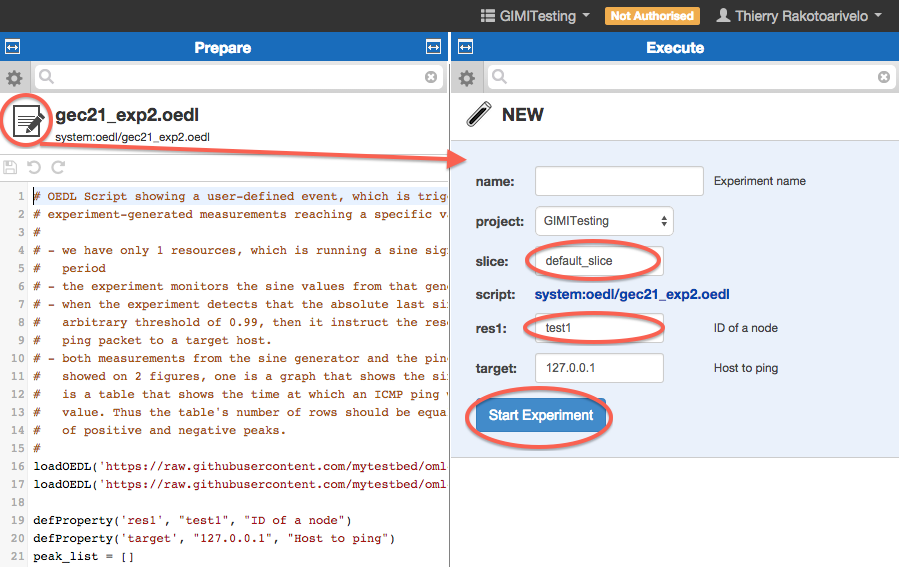
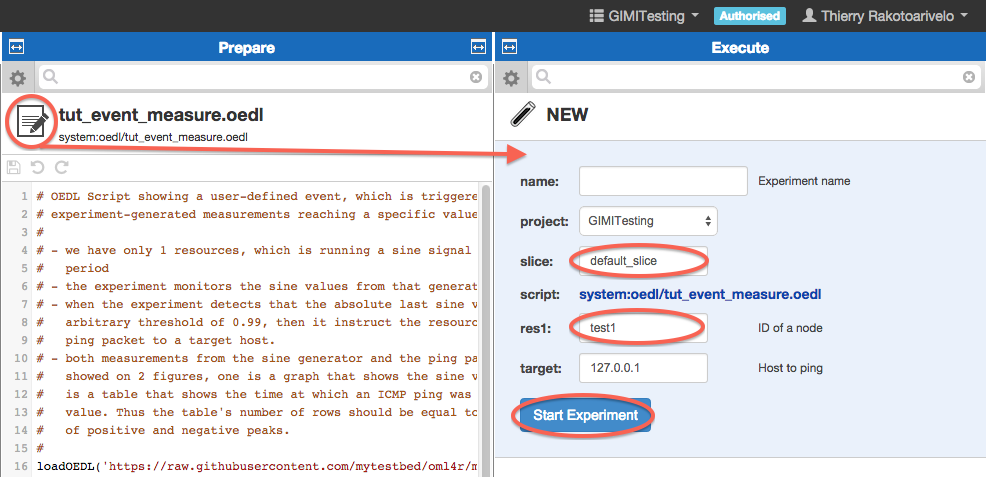
Updated figures with new names

Changed region(s): [[0.0, 0.0, 1.0, 1.0], [0.7475, 0.7631, 0.8409, 0.7925]]

diff --git a/gec21_oedl_tutorial/tut_event_measure.md b/gec21_oedl_tutorial/tut_event_measure.md
@@ -26,7 +26,7 @@ For specific help on using LabWiki, please refer to the [LabWiki introduction pa
 **The OEDL experiment description**
 
 - First, if you have not done it yet, login into LabWiki
-- Load the 'tut_event_measure' experiment file in the 'Prepare' Panel of LabWiki. This file contains the OEDL script for this 1st experiment
+- Load the 'tut_event_measure.oedl' experiment file in the 'Prepare' Panel of LabWiki. This file contains the OEDL script for this 1st experiment
 - If you are not reading this using LabWiki, you can view this OEDL file online at: [http://git.io/UVUNag](http://git.io/UVUNag)
 
 ![Experiment 2 OEDL Extract](https://raw.githubusercontent.com/mytestbed/gec_demos_tutorial/master/gec21_oedl_tutorial/tut_event_measure.fig2.png)

diff --git a/gec21_oedl_tutorial/tut_get_resource.md b/gec21_oedl_tutorial/tut_get_resource.md
@@ -22,7 +22,7 @@ For specific help on using LabWiki, please refer to the [LabWiki introduction pa
 **The OEDL experiment description**
 
 - First, if you have not done it yet, login into LabWiki
-- Load the 'tut_get_resource' experiment file in the 'Prepare' Panel of LabWiki. This file contains the OEDL script for this 1st experiment
+- Load the 'tut_get_resource.oedl' experiment file in the 'Prepare' Panel of LabWiki. This file contains the OEDL script for this 1st experiment
 - If you are not reading this using LabWiki, you can view this OEDL file online at: [http://git.io/kZMN_A](http://git.io/kZMN_A)
 
 ![Experiment 3 OEDL Extract](https://raw.githubusercontent.com/mytestbed/gec_demos_tutorial/master/gec21_oedl_tutorial/tut_get_resource.fig1.png)

diff --git a/gec21_oedl_tutorial/tut_event_state.md b/gec21_oedl_tutorial/tut_event_state.md
@@ -28,7 +28,7 @@ For specific help on using LabWiki, please refer to the [LabWiki introduction pa
 **The OEDL experiment description**
 
 - First, if you have not done it yet, login into LabWiki
-- Load the 'tut_event_state' experiment file in the 'Prepare' Panel of LabWiki. This file contains the OEDL script for this 1st experiment
+- Load the 'tut_event_state.oedl' experiment file in the 'Prepare' Panel of LabWiki. This file contains the OEDL script for this 1st experiment
 - If you are not reading this using LabWiki, you can view this OEDL file online at: [http://git.io/AcVU1g](http://git.io/AcVU1g)
 
 ![Experiment 1 OEDL Extract](https://raw.githubusercontent.com/mytestbed/gec_demos_tutorial/master/gec21_oedl_tutorial/tut_event_state.fig2.png)
